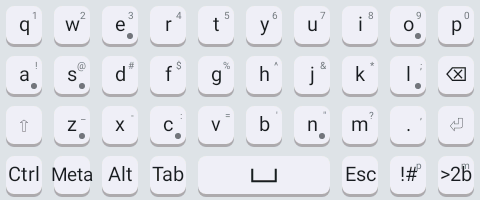
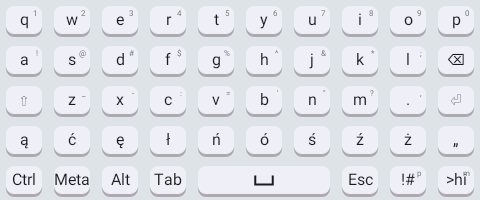
Give the frequent-letter languages a fourth letter row
The owner's split: where a language's own letters are too frequent to
live on flicks - German's umlauts and sharp s, Turkish's dotless i and
its five siblings, Polish's nine, Portuguese's and French's accented
vowels, Greek's tone vowels, Persian's squeezed-out letters - they get a
real row, and the page becomes five rows in the same keyboard height.
The flicks stay as the second path. Spanish, Italian, Vietnamese, Hebrew
and Japanese Romaji stay four rows, where flicks are enough.

v0.1.131, versionCode 132.

diff --git a/app/src/main/java/com/retekey/KeyboardLayouts.java b/app/src/main/java/com/retekey/KeyboardLayouts.java
@@ -79,12 +79,16 @@ public final class KeyboardLayouts {
     private static final KeyboardLayout COLEMAK_SHIFTED = colemak(true);
     private static final KeyboardLayout ES_BASE = spanish(false);
     private static final KeyboardLayout ES_SHIFTED = spanish(true);
-    private static final KeyboardLayout PT_BASE = qwertyWithAccents(KeyboardLayoutId.PT_QWERTY, false, LatinAccents.PORTUGUESE);
-    private static final KeyboardLayout PT_SHIFTED = qwertyWithAccents(KeyboardLayoutId.PT_QWERTY, true, LatinAccents.PORTUGUESE);
+    private static final KeyboardLayout PT_BASE = latinQwertyShape(KeyboardLayoutId.PT_QWERTY, false,
+        "qwertyuiop", "asdfghjkl", "zxcvbnm", "çãõáéíóúâê", LatinAccents.PORTUGUESE, java.util.Locale.ROOT);
+    private static final KeyboardLayout PT_SHIFTED = latinQwertyShape(KeyboardLayoutId.PT_QWERTY, true,
+        "qwertyuiop", "asdfghjkl", "zxcvbnm", "çãõáéíóúâê", LatinAccents.PORTUGUESE, java.util.Locale.ROOT);
     private static final KeyboardLayout IT_BASE = qwertyWithAccents(KeyboardLayoutId.IT_QWERTY, false, LatinAccents.ITALIAN);
     private static final KeyboardLayout IT_SHIFTED = qwertyWithAccents(KeyboardLayoutId.IT_QWERTY, true, LatinAccents.ITALIAN);
-    private static final KeyboardLayout PL_BASE = qwertyWithAccents(KeyboardLayoutId.PL_QWERTY, false, LatinAccents.POLISH);
-    private static final KeyboardLayout PL_SHIFTED = qwertyWithAccents(KeyboardLayoutId.PL_QWERTY, true, LatinAccents.POLISH);
+    private static final KeyboardLayout PL_BASE = latinQwertyShape(KeyboardLayoutId.PL_QWERTY, false,
+        "qwertyuiop", "asdfghjkl", "zxcvbnm", "ąćęłńóśźż„", LatinAccents.POLISH, java.util.Locale.ROOT);
+    private static final KeyboardLayout PL_SHIFTED = latinQwertyShape(KeyboardLayoutId.PL_QWERTY, true,
+        "qwertyuiop", "asdfghjkl", "zxcvbnm", "ąćęłńóśźż„", LatinAccents.POLISH, java.util.Locale.ROOT);
     private static final KeyboardLayout VI_BASE = qwertyWithAccents(KeyboardLayoutId.VI_TELEX, false, LatinAccents.VIETNAMESE);
     private static final KeyboardLayout VI_SHIFTED = qwertyWithAccents(KeyboardLayoutId.VI_TELEX, true, LatinAccents.VIETNAMESE);
     private static final KeyboardLayout DE_BASE = german(false);
@@ -781,6 +785,17 @@ public final class KeyboardLayouts {
     private static KeyboardLayout latinQwertyShape(
             KeyboardLayoutId id, boolean shifted, String top, String home, String bottom,
             java.util.Map<String, String[]> accents, java.util.Locale locale) {
+        return latinQwertyShape(id, shifted, top, home, bottom, null, accents, locale);
+    }
+
+    /**
+     * The same, with a fourth letter row — a language whose own letters are too frequent to live
+     * on flicks gets them as real keys, and the five-row geometry shortens every row to a fifth
+     * of the same height (the owner's split, 2026-08-26). The flicks stay, so both paths work.
+     */
+    private static KeyboardLayout latinQwertyShape(
+            KeyboardLayoutId id, boolean shifted, String top, String home, String bottom,
+            String extraRow, java.util.Map<String, String[]> accents, java.util.Locale locale) {
         if (top.length() != 10 || home.length() != 9 || bottom.length() != 7) {
             throw new IllegalArgumentException("QWERTY shape is 10/9/7 letters");
         }
@@ -804,6 +819,13 @@ public final class KeyboardLayouts {
         third.add(letterPeriodKey());
         third.add(enterKey());
         rows.add(KeyboardLayout.row(third.toArray(new SoftwareKeySpec[0])));
+        if (extraRow != null) {
+            List<SoftwareKeySpec> fourth = new ArrayList<>(10);
+            for (char c : extraRow.toCharArray()) {
+                fourth.add(letter(String.valueOf(c), shifted, locale));
+            }
+            rows.add(KeyboardLayout.row(fourth.toArray(new SoftwareKeySpec[0])));
+        }
         return letterPage(id, shifted,
             withAccents(withHolds(rows, HOLDS_10_9_7), accents, shifted, locale), null);
     }
@@ -842,8 +864,11 @@ public final class KeyboardLayouts {
 
     /** German QWERTZ in ten columns: y and z swapped, ü ö ä under u o a, ß under s. */
     private static KeyboardLayout german(boolean shifted) {
+        // The umlauts and ß are alphabet members: a fourth letter row seats them (with the German
+        // quotes and the euro), rather than an eleventh column narrowing every key.
         return latinQwertyShape(KeyboardLayoutId.DE_QWERTZ, shifted,
-            "qwertzuiop", "asdfghjkl", "yxcvbnm", LatinAccents.GERMAN, java.util.Locale.GERMAN);
+            "qwertzuiop", "asdfghjkl", "yxcvbnm", "üöäß„“€-?!",
+            LatinAccents.GERMAN, java.util.Locale.GERMAN);
     }
 
     /**
@@ -852,8 +877,10 @@ public final class KeyboardLayouts {
      * Capitals follow Turkish: i → İ and ı → I.
      */
     private static KeyboardLayout turkish(boolean shifted) {
+        // ı is one of Turkish's commonest letters — it and its five siblings get a real row.
         return latinQwertyShape(KeyboardLayoutId.TR_QWERTY, shifted,
-            "qwertyuiop", "asdfghjkl", "zxcvbnm", LatinAccents.TURKISH, new java.util.Locale("tr"));
+            "qwertyuiop", "asdfghjkl", "zxcvbnm", "üıöşğç“”₺?",
+            LatinAccents.TURKISH, new java.util.Locale("tr"));
     }
 
     /**
@@ -882,6 +909,11 @@ public final class KeyboardLayouts {
             letter("v", shifted), letter("b", shifted), letter("n", shifted),
             backspaceKey(), frenchPeriodKey(), enterKey()
         ));
+        List<SoftwareKeySpec> fourth = new ArrayList<>(10);
+        for (char c : "éèêàçùâûîô".toCharArray()) {
+            fourth.add(letter(String.valueOf(c), shifted, java.util.Locale.FRENCH));
+        }
+        rows.add(KeyboardLayout.row(fourth.toArray(new SoftwareKeySpec[0])));
         return letterPage(KeyboardLayoutId.FR_AZERTY, shifted,
             withAccents(withHolds(rows, HOLDS_10_10_6), LatinAccents.FRENCH, shifted,
                 java.util.Locale.FRENCH), null);
@@ -921,6 +953,11 @@ public final class KeyboardLayouts {
         third.add(letterPeriodKey());
         third.add(enterKey());
         rows.add(KeyboardLayout.row(third.toArray(new SoftwareKeySpec[0])));
+        List<SoftwareKeySpec> fourth = new ArrayList<>(10);
+        for (char c : "άέήίόύώϊϋ€".toCharArray()) {
+            fourth.add(letter(String.valueOf(c), shifted));
+        }
+        rows.add(KeyboardLayout.row(fourth.toArray(new SoftwareKeySpec[0])));
         return letterPage(KeyboardLayoutId.EL_QWERTY, shifted,
             withAccents(withHolds(rows, new String[] {"234567890", HOLD_SYMBOLS, HOLD_MARKS}),
                 LatinAccents.GREEK, shifted, java.util.Locale.ROOT), null);
@@ -986,6 +1023,13 @@ public final class KeyboardLayouts {
         third.add(backspaceKey());
         third.add(enterKey());
         rows.add(KeyboardLayout.row(third.toArray(new SoftwareKeySpec[0])));
+        // The letters the ten columns squeezed out get a row of their own (visual left-to-right;
+        // it reads آ ث ذ ظ ژ ء أ إ ؤ ئ from the right); the flicks stay as the second path.
+        List<SoftwareKeySpec> fourth = new ArrayList<>(10);
+        for (char c : "ئؤإأءژظذثآ".toCharArray()) {
+            fourth.add(letter(String.valueOf(c), false));
+        }
+        rows.add(KeyboardLayout.row(fourth.toArray(new SoftwareKeySpec[0])));
         List<List<SoftwareKeySpec>> held = withAccents(
             withHolds(rows, new String[] {"۱۲۳۴۵۶۷۸۹۰", "۱۲۳۴۵۶۷۸۹۰", "۱۲۳۴۵۶۷۸"}),
             LatinAccents.PERSIAN, false, java.util.Locale.ROOT);

diff --git a/app/src/test/java/com/retekey/LetterHoldsTest.java b/app/src/test/java/com/retekey/LetterHoldsTest.java
@@ -422,6 +422,42 @@ public final class LetterHoldsTest {
         }
     }
 
+    @Test
+    public void frequentLetterLanguagesGainedAFourthLetterRow() {
+        // The owner's split (2026-08-26): where a language's own letters were too frequent to
+        // live on flicks, they get a real row and the page becomes five rows in the same height.
+        // The flicks stay, so both paths type the same characters.
+        assertEquals(Arrays.asList("ü", "ö", "ä", "ß", "„", "“", "€", "-", "?", "!"),
+            labels(KeyboardLayouts.of(KeyboardLayoutId.DE_QWERTZ, false), 3));
+        assertEquals(Arrays.asList("ü", "ı", "ö", "ş", "ğ", "ç", "“", "”", "₺", "?"),
+            labels(KeyboardLayouts.of(KeyboardLayoutId.TR_QWERTY, false), 3));
+        assertEquals(Arrays.asList("ą", "ć", "ę", "ł", "ń", "ó", "ś", "ź", "ż", "„"),
+            labels(KeyboardLayouts.of(KeyboardLayoutId.PL_QWERTY, false), 3));
+        assertEquals(Arrays.asList("ç", "ã", "õ", "á", "é", "í", "ó", "ú", "â", "ê"),
+            labels(KeyboardLayouts.of(KeyboardLayoutId.PT_QWERTY, false), 3));
+        assertEquals(Arrays.asList("é", "è", "ê", "à", "ç", "ù", "â", "û", "î", "ô"),
+            labels(KeyboardLayouts.of(KeyboardLayoutId.FR_AZERTY, false), 3));
+        assertEquals(Arrays.asList("ά", "έ", "ή", "ί", "ό", "ύ", "ώ", "ϊ", "ϋ", "€"),
+            labels(KeyboardLayouts.of(KeyboardLayoutId.EL_QWERTY, false), 3));
+        assertEquals(Arrays.asList("ئ", "ؤ", "إ", "أ", "ء", "ژ", "ظ", "ذ", "ث", "آ"),
+            labels(KeyboardLayouts.of(KeyboardLayoutId.FA_ISIRI, false), 3));
+        for (KeyboardLayoutId id : Arrays.asList(
+                KeyboardLayoutId.DE_QWERTZ, KeyboardLayoutId.TR_QWERTY, KeyboardLayoutId.PL_QWERTY,
+                KeyboardLayoutId.PT_QWERTY, KeyboardLayoutId.FR_AZERTY, KeyboardLayoutId.EL_QWERTY,
+                KeyboardLayoutId.FA_ISIRI)) {
+            assertEquals(String.valueOf(id), 5, KeyboardLayouts.of(id, false).rows().size());
+        }
+        // Turkish cases its new row the Turkish way; German's sharp s capitalises to ẞ.
+        assertEquals("I", labels(KeyboardLayouts.of(KeyboardLayoutId.TR_QWERTY, true), 3).get(1));
+        assertEquals("ẞ", labels(KeyboardLayouts.of(KeyboardLayoutId.DE_QWERTZ, true), 3).get(3));
+        // And the four-row layouts stayed four rows.
+        for (KeyboardLayoutId id : Arrays.asList(
+                KeyboardLayoutId.ES_QWERTY, KeyboardLayoutId.IT_QWERTY, KeyboardLayoutId.VI_TELEX,
+                KeyboardLayoutId.HE_STANDARD, KeyboardLayoutId.JA_ROMAJI, KeyboardLayoutId.EN_COLEMAK)) {
+            assertEquals(String.valueOf(id), 4, KeyboardLayouts.of(id, false).rows().size());
+        }
+    }
+
     private static List<String> labels(KeyboardLayout layout, int row) {
         List<String> found = new ArrayList<>();
         for (SoftwareKeySpec key : layout.rows().get(row)) {

diff --git a/app/src/test/java/com/retekey/KeyboardLayoutTest.java b/app/src/test/java/com/retekey/KeyboardLayoutTest.java
@@ -191,7 +191,7 @@ public final class KeyboardLayoutTest {
                 assertNotNull(where, escape);
                 assertEquals(where, "Esc", escape.label());
                 assertEquals(where, RawKey.ESCAPE, escape.semanticInput().rawKey());
-                List<SoftwareKeySpec> bottom = layout.rows().get(3);
+                List<SoftwareKeySpec> bottom = layout.rows().get(layout.rows().size() - 1);
                 assertEquals(where + ": it sits directly right of space",
                     "space", bottom.get(bottom.indexOf(escape) - 1).label());
             }

diff --git a/README.ko.md b/README.ko.md
@@ -51,8 +51,8 @@ APK를 바로 받으실 수도 있습니다.
 **[⬇ 안드로이드 4.0 이상](https://github.com/rubidus-api/retekey_apk/releases/latest/download/retekey-legacy.apk)**
 &nbsp;·&nbsp; [모든 릴리즈](https://github.com/rubidus-api/retekey_apk/releases)
 
-현재 릴리즈: **v0.1.130** —
-[retekey-0.1.130.apk](https://github.com/rubidus-api/retekey_apk/releases/download/v0.1.130/retekey-0.1.130.apk)
+현재 릴리즈: **v0.1.131** —
+[retekey-0.1.131.apk](https://github.com/rubidus-api/retekey_apk/releases/download/v0.1.131/retekey-0.1.131.apk)
 
 폰이 안드로이드 9보다 오래되지 않았다면 첫 번째 링크를 받으시면 됩니다. 두 파일은 같은 앱이고 하나가
 다른 하나를 대체합니다. [두 빌드에 대한 설명](#안드로이드-버전-지원-범위)도 아래에 있습니다. F-Droid에는
@@ -232,6 +232,12 @@ QWERTY의 줄 모양이자 Dvorak의 7/10/9를 다른 순서로 읽은 것이라
 **포르투갈어·이탈리아어·폴란드어·베트남어·독일어(y/z 교환)·터키어**는 QWERTY 모양 그대로 자기 글자를 품고, 베트남어는 Telex로 칩니다:
 
 ![포르투갈어 자판](assets/keyboard-portuguese.png)
+
+**자기 글자가 끌기에 두기엔 너무 잦은 언어들은 4번째 글자 행을 받았습니다** — 독일어(ü ö ä ß와 독일
+인용부호·€), 터키어(ü ı ö ş ğ ç), 폴란드어(ą ć ę ł ń ó ś ź ż), 포르투갈어(ç ã õ와 악센트 모음),
+프랑스어(최빈 악센트 열 자), 그리스어(톤 모음), 페르시아어(10열이 밀어냈던 글자들) — 같은 키보드 높이의
+5줄이고 행 높이는 1/5입니다. 끌기는 그대로 남아 두 경로가 같은 글자를 칩니다. 스페인어·이탈리아어·
+베트남어·히브리어·일본어 로마자는 끌기로 충분해 4줄 그대로입니다.
 
 **언어의 글자는 목록이 아니라 끌기입니다.** 부호 모양의 방향대로 키를 끌면 — 그라브 왼쪽, 곡절 위, 아쿠트
 오른쪽, 세디유 아래 — 그 글자가 바로 입력됩니다. 천지인·일본어 플릭과 같은 드래그입니다. 길게 누르면 키

diff --git a/README.md b/README.md
@@ -51,8 +51,8 @@ Or take an APK directly:
 **[⬇ Android 4.0+](https://github.com/rubidus-api/retekey_apk/releases/latest/download/retekey-legacy.apk)**
 &nbsp;·&nbsp; [all releases](https://github.com/rubidus-api/retekey_apk/releases)
 
-Current release: **v0.1.130** —
-[retekey-0.1.130.apk](https://github.com/rubidus-api/retekey_apk/releases/download/v0.1.130/retekey-0.1.130.apk)
+Current release: **v0.1.131** —
+[retekey-0.1.131.apk](https://github.com/rubidus-api/retekey_apk/releases/download/v0.1.131/retekey-0.1.131.apk)
 
 Take the first link unless your phone is older than Android 9; the two are the same app and one
 replaces the other. [More about the two builds](#android-version-support). F-Droid carries the
@@ -236,6 +236,13 @@ The layouts, as they are:
 shape and hold their own letters; Vietnamese types through Telex:
 
 ![Portuguese layout](assets/keyboard-portuguese.png)
+
+**Languages whose own letters are too frequent for flicks got a fourth letter row** — German (ü ö ä ß
+with the German quotes and €), Turkish (ü ı ö ş ğ ç), Polish (ą ć ę ł ń ó ś ź ż), Portuguese
+(ç ã õ and the accented vowels), French (the ten commonest accents), Greek (the tone vowels) and
+Persian (the letters the ten columns had squeezed out) — five rows in the same keyboard height, each
+row a fifth of it. The flicks stay, so both paths type the same characters. Spanish, Italian,
+Vietnamese, Hebrew and Japanese Romaji stay four rows, where flicks are enough.
 
 **A language's own letters are flicks, not lists.** Drag a key the mark's own way — grave left,
 circumflex up, acute right, cedilla down — and the letter types at once, exactly the drag the Korean
